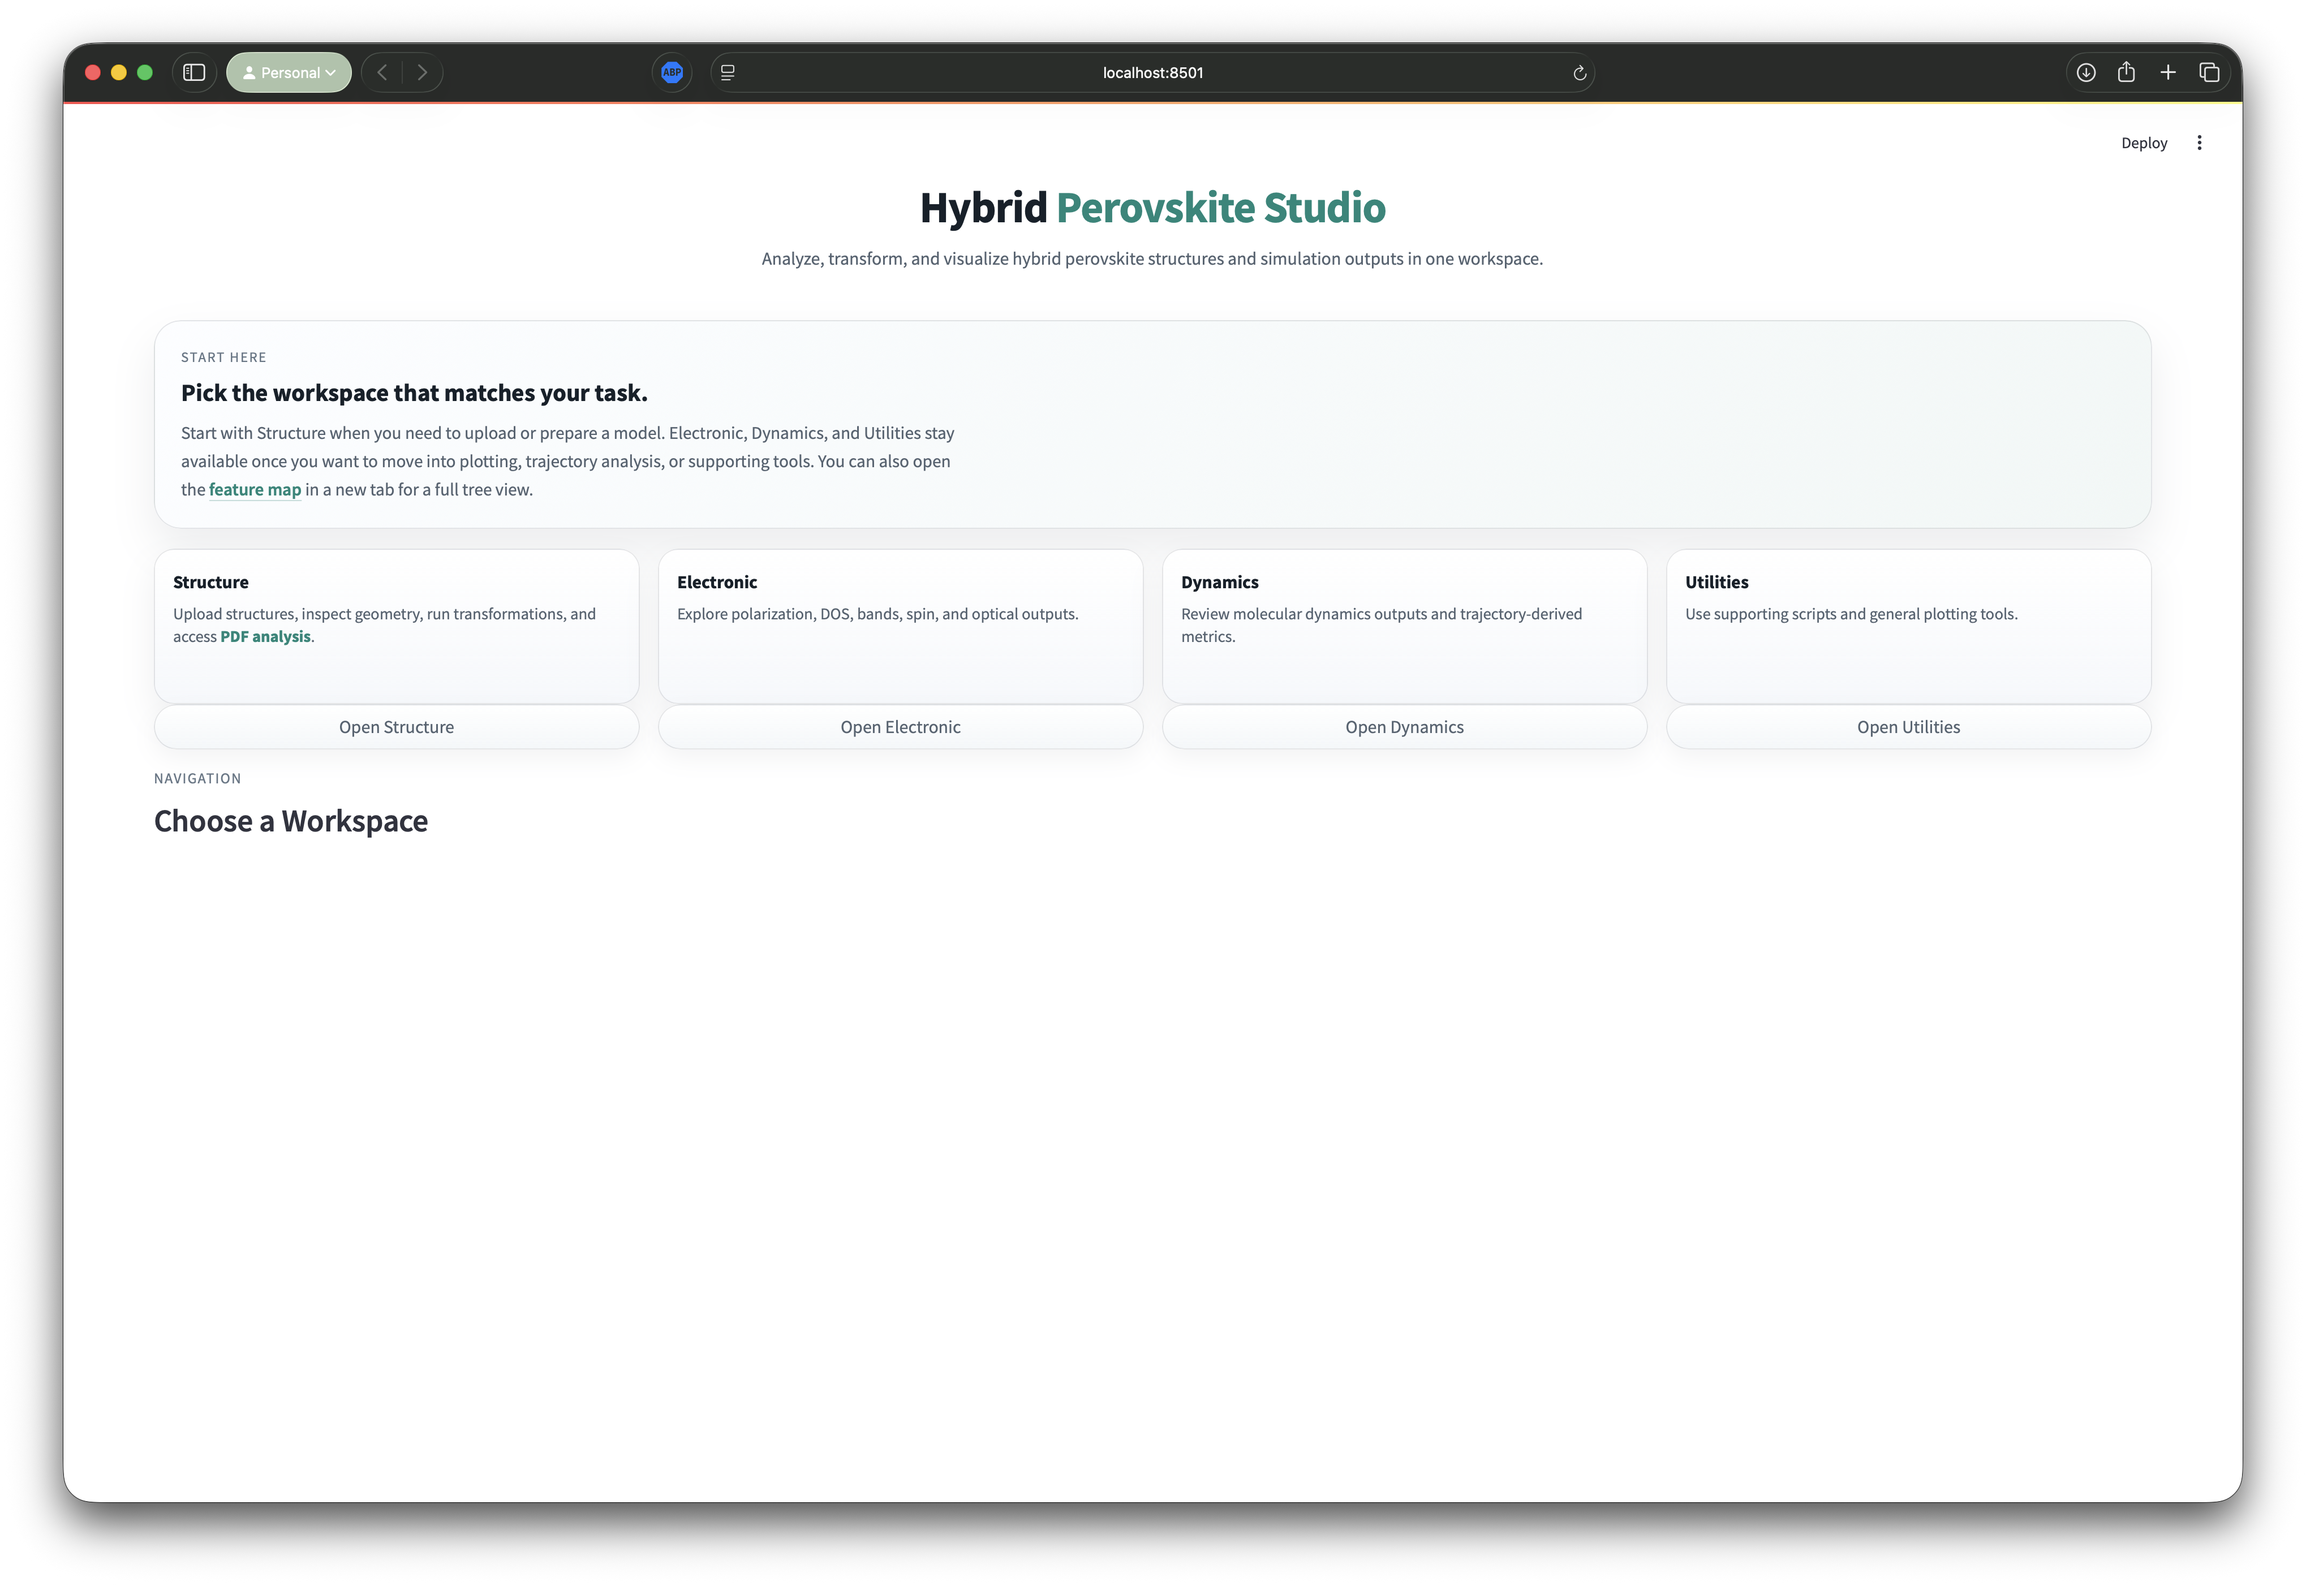
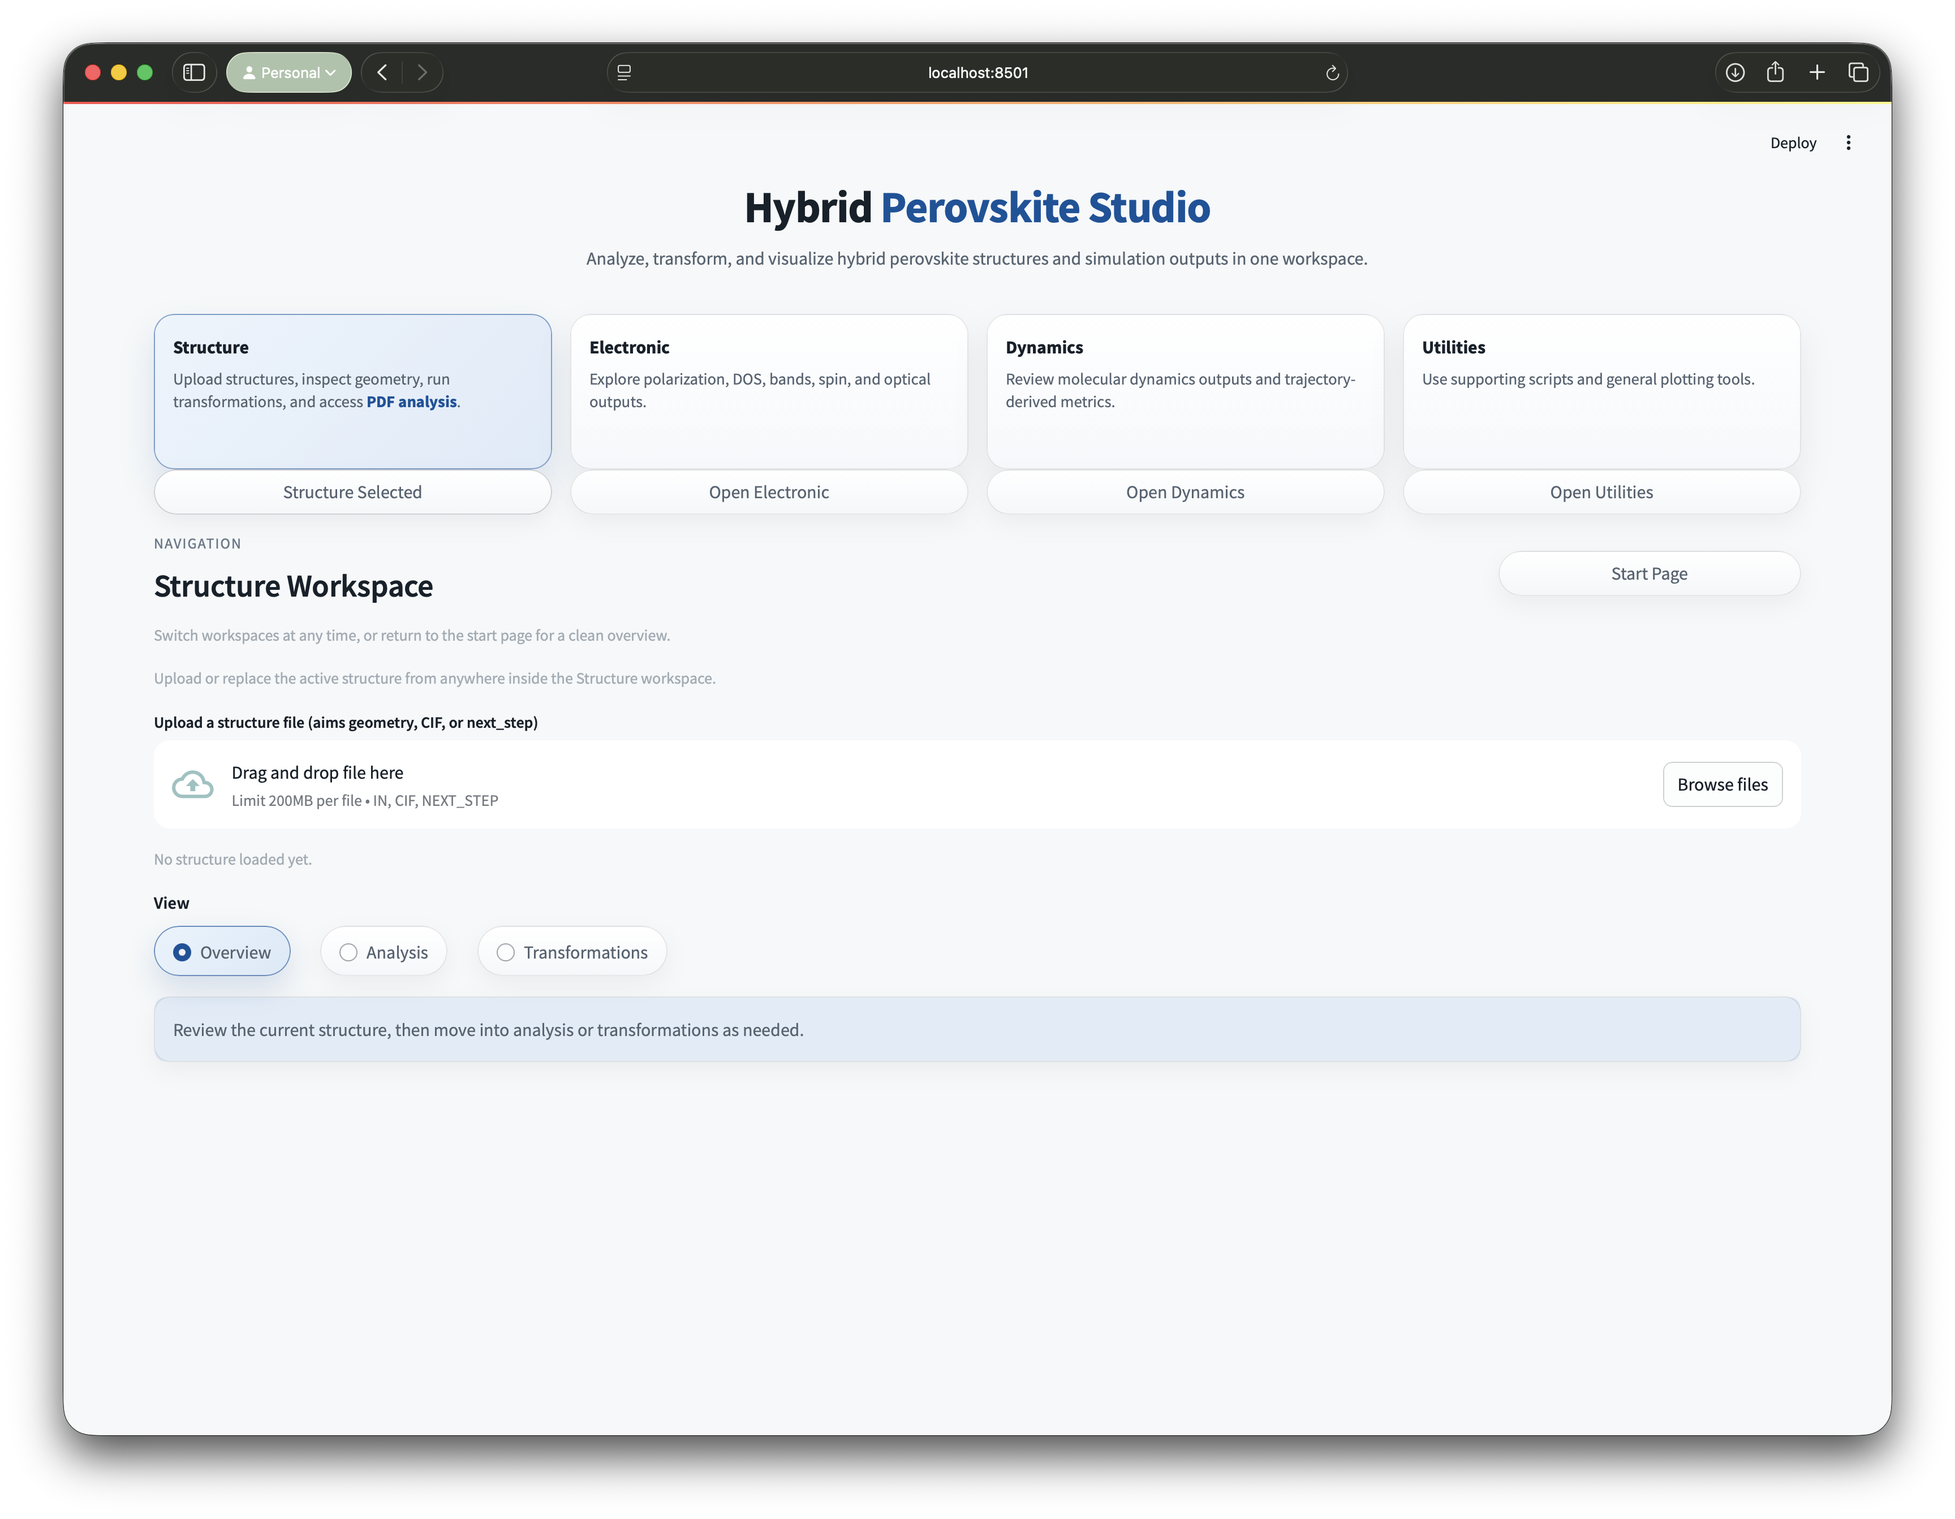
update theme

diff --git a/src/hps/ui/app_main.py b/src/hps/ui/app_main.py
@@ -274,9 +274,9 @@ st.markdown(
         --hp-text-muted: #556371;
         --hp-text-subtle: #677787;
         --hp-border: rgba(49, 51, 63, 0.12);
-        --hp-border-strong: rgba(12, 135, 122, 0.4);
-        --hp-accent: #0c877a;
-        --hp-accent-soft: rgba(12, 135, 122, 0.1);
+        --hp-border-strong: rgba(0, 83, 155, 0.38);
+        --hp-accent: #00539B;
+        --hp-accent-soft: rgba(0, 83, 155, 0.1);
         --hp-shadow-sm: 0 8px 20px rgba(15, 23, 42, 0.05);
         --hp-shadow-md: 0 14px 30px rgba(15, 23, 42, 0.07);
         --hp-shadow-lg: 0 18px 38px rgba(15, 23, 42, 0.08);
@@ -357,12 +357,12 @@ st.markdown(
     }
     div[data-testid="stRadio"] div[role="radiogroup"] > label:hover {
         border-color: var(--hp-border-strong);
-        box-shadow: 0 10px 22px rgba(12, 135, 122, 0.12);
+        box-shadow: 0 10px 22px rgba(0, 83, 155, 0.12);
     }
     div[data-testid="stRadio"] div[role="radiogroup"] > label:has(input:checked) {
-        background: linear-gradient(135deg, rgba(230, 246, 243, 1), rgba(214, 240, 236, 1));
-        border-color: rgba(12, 135, 122, 0.65);
-        box-shadow: 0 12px 26px rgba(12, 135, 122, 0.18);
+        background: linear-gradient(135deg, rgba(233, 243, 252, 1), rgba(219, 234, 248, 1));
+        border-color: rgba(0, 83, 155, 0.62);
+        box-shadow: 0 12px 26px rgba(0, 83, 155, 0.16);
     }
     div[data-testid="stSelectbox"] > label p,
     div[data-testid="stFileUploader"] > label p,
@@ -406,9 +406,9 @@ st.markdown(
         box-shadow: var(--hp-shadow-md);
     }
     .workspace-card.active {
-        border-color: rgba(12, 135, 122, 0.55);
-        background: linear-gradient(135deg, rgba(232, 247, 244, 1), rgba(220, 241, 237, 1));
-        box-shadow: 0 16px 30px rgba(12, 135, 122, 0.14);
+        border-color: rgba(0, 83, 155, 0.52);
+        background: linear-gradient(135deg, rgba(236, 244, 252, 1), rgba(223, 235, 248, 1));
+        box-shadow: 0 16px 30px rgba(0, 83, 155, 0.14);
     }
     .workspace-card-title {
         font-size: 1rem;
@@ -464,11 +464,11 @@ st.markdown(
         color: var(--hp-accent);
         font-weight: 600;
         text-decoration: none;
-        border-bottom: 1px solid rgba(12, 135, 122, 0.28);
+        border-bottom: 1px solid rgba(0, 83, 155, 0.28);
     }
     .landing-copy a:hover,
     .feature-map-panel a:hover {
-        border-bottom-color: rgba(12, 135, 122, 0.65);
+        border-bottom-color: rgba(0, 83, 155, 0.65);
     }
     .feature-map-panel {
         border-radius: var(--hp-radius-lg);
